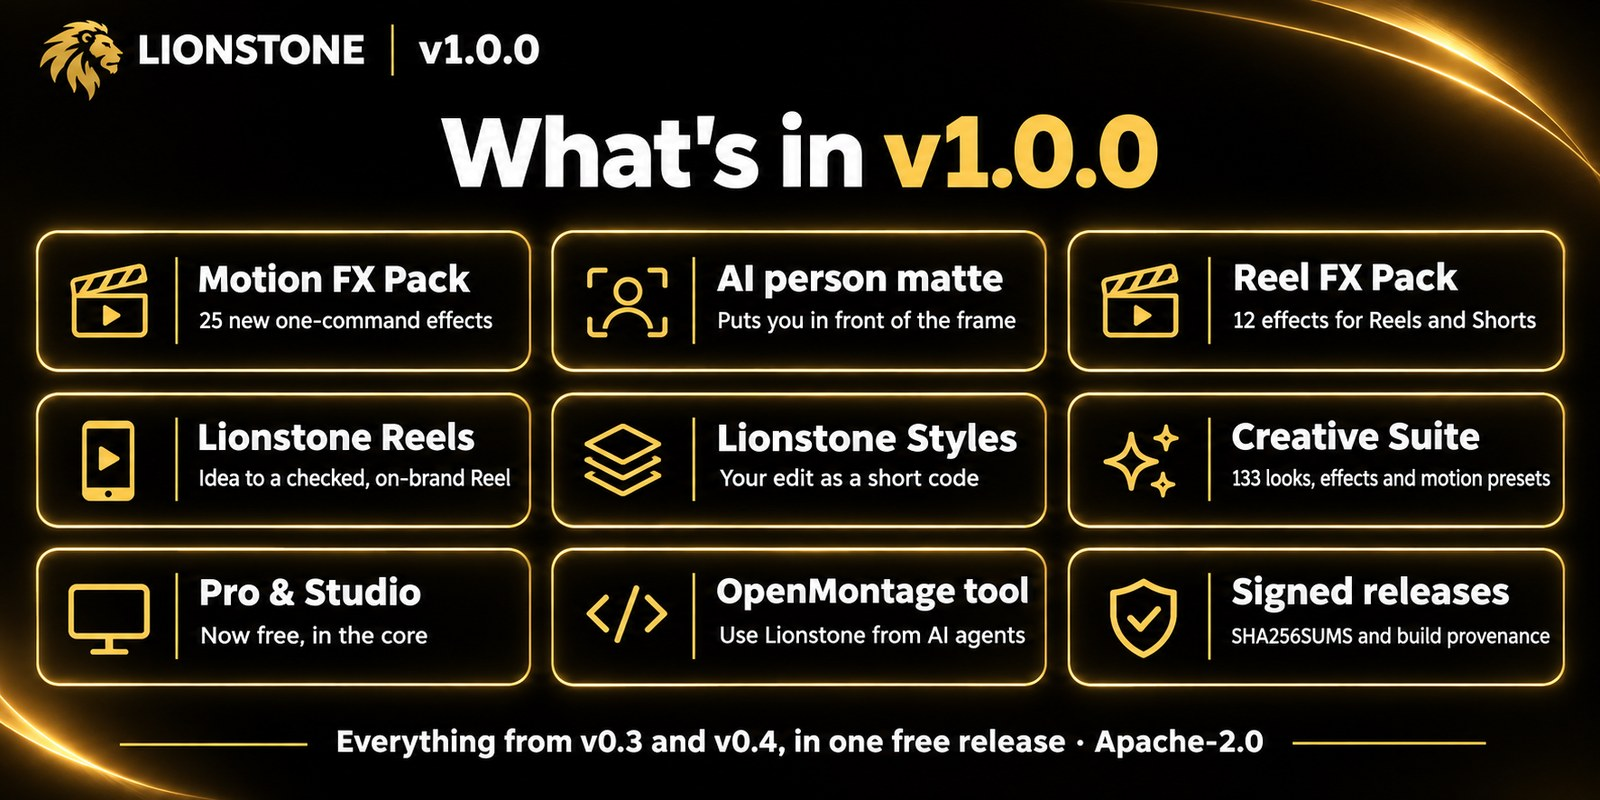
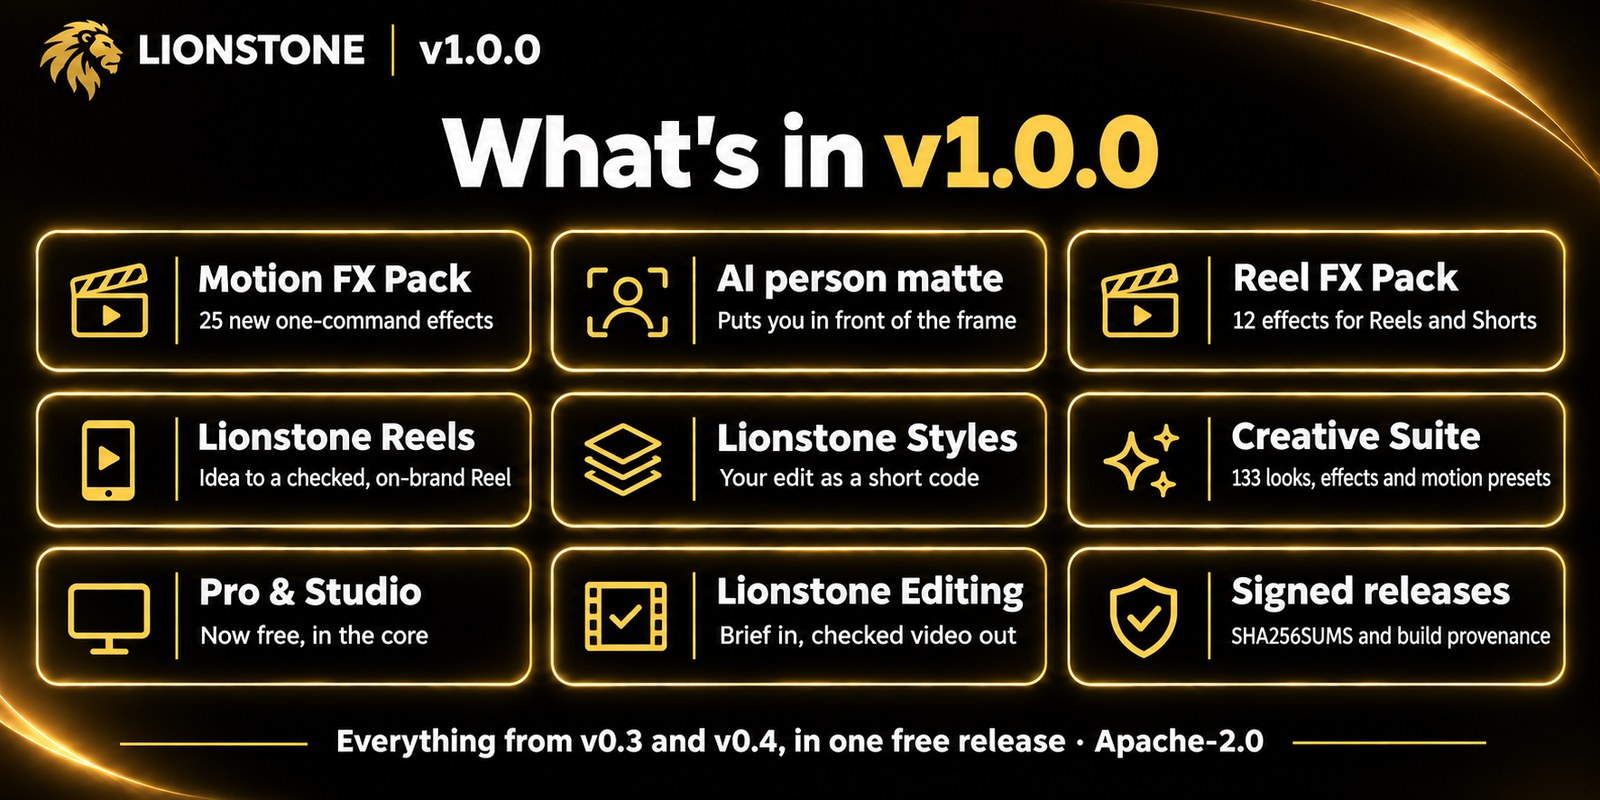
v1.0.0: Lionstone Editing is part of the release; drop OpenMontage from the notes
The CHANGELOG 1.0.0 section, release notes, README alt text and the
'What's in v1.0.0' image now show Lionstone Editing instead of the removed
OpenMontage adapter.

diff --git a/CHANGELOG.md b/CHANGELOG.md
@@ -1,9 +1,5 @@
 # Changelog
 
-## Unreleased
-- **Lionstone Editing** ([docs/editing.md](docs/editing.md)): Lionstone's own production loop for AI assistants. A `brief.json` goes in; `lionstone editing run` plans the edit, stops for review if asked, applies the Studio look, renders, applies the Motion FX / Reel FX from the brief, runs QA on the final file and writes `report.md`. Every stage is recorded in `production.json` (`done`, `skipped` with a reason, `partial`, `waiting`, `failed`); finished stages are not repeated and `--from STAGE` redoes from a stage. New MCP tools `editing_init`, `editing_run`, `editing_status`, and a skill in `integrations/lionstone-editing/`. Creative copy comes only from the brief.
-- **Removed the OpenMontage adapter** (`integrations/openmontage/`, `docs/openmontage.md`): Lionstone Editing covers the same brief-to-video loop with Lionstone's own tools. `lionstone fx clip` is unchanged.
-
 ## 1.0.0 — 2026-11-09
 **Lionstone 1.0: the Motion FX Pack. Twenty-five motion-design effects, one command each, and a person matte that puts you in front of the frame. Free as ever.**
 
@@ -14,7 +10,7 @@
 - Renders, previews and showcase reels feed the matte with the same cuts as the video (`render.build_graph(matte_input=…)`).
 - Text in effects is literal: `%` in a label no longer breaks the render (`expansion=none`), and bundled fonts load from Windows user folders with non-ASCII names (FreeType can't open those paths, so fonts are used from a temp copy).
 - **`lionstone fx clip <effect> in.mp4 -o out.mp4`**: one effect on a whole clip at its own size, audio copied ([pro/features/clipfx.py](src/lionstone/pro/features/clipfx.py)).
-- **OpenMontage integration** ([docs/openmontage.md](docs/openmontage.md)): `integrations/openmontage/install.py` adds the `lionstone_motion_fx` tool and skill to an OpenMontage checkout. The tool runs the `lionstone` command, so the Apache-2.0 and AGPL-3.0 projects stay separate programs.
+- **Lionstone Editing** ([docs/editing.md](docs/editing.md)): Lionstone's own production loop for AI assistants. A `brief.json` goes in; `lionstone editing run` plans the edit, stops for review if asked, applies the Studio look, renders, applies the Motion FX / Reel FX from the brief, runs QA on the final file and writes `report.md`. Every stage is recorded in `production.json` (`done`, `skipped` with a reason, `partial`, `waiting`, `failed`); finished stages are not repeated and `--from STAGE` redoes from a stage. New MCP tools `editing_init`, `editing_run`, `editing_status`, and a skill in `integrations/lionstone-editing/`. Creative copy comes only from the brief.
 - **Security on GitHub**: CodeQL code scanning, OpenSSF Scorecard, weekly grouped Dependabot, actions pinned to commit SHAs with read-only default tokens, CODEOWNERS, and a release workflow that tests, builds, writes SHA256SUMS, attests build provenance (Sigstore) and publishes the release. New [SECURITY.md](SECURITY.md) with supported versions, response times, network use and release verification.
 - Launch visuals are real renders: `scripts/build_motionfx_visuals.py` renders every effect on a fictional demo character and builds the carousel slides and `docs/img/motionfx-*.jpg`.
 - Fix: Paper Cut no longer tints grey areas green (chroma rounding).

diff --git a/docs/releases/v1.0.0.md b/docs/releases/v1.0.0.md
@@ -13,7 +13,7 @@
 - **Theatre.js keyframes for Remotion titles**: the `useTheatreSequence()` hook drives a title from a keyframed Theatre.js sequence (`@theatre/core`, Apache-2.0). Guide: [docs/motion-fx-2.md](https://github.com/ismailarslantas/lionstone/blob/v1.0.0/docs/motion-fx-2.md).
 - **Synfig backend** (optional): `lionstone fx synfig overlay.sif --input talk.mp4 -o out.mp4` renders a Synfig animation with the external `synfig` program and composites it over your video. Synfig (GPL) runs as a separate program and is never bundled.
 - **`lionstone fx clip <effect> in.mp4 -o out.mp4`**: apply one effect to a whole clip at its own size.
-- **OpenMontage tool**: use Lionstone's effects from AI video agents through the `lionstone_motion_fx` tool and skill ([docs/openmontage.md](https://github.com/ismailarslantas/lionstone/blob/v1.0.0/docs/openmontage.md)).
+- **Lionstone Editing**: Lionstone's own production loop for AI assistants. A short brief and your footage go in; `lionstone editing run` plans the edit, applies the look and the Motion FX / Reel FX from the brief, renders, runs QA on the final file and writes a report. Every stage is recorded, so a run can stop for your review and pick up where it left off. Also available as MCP tools (`editing_init`, `editing_run`, `editing_status`) and a Claude skill. Guide: [docs/editing.md](https://github.com/ismailarslantas/lionstone/blob/v1.0.0/docs/editing.md).
 - **Signed, verifiable releases and a hardened repository**: CodeQL code scanning, OpenSSF Scorecard, Dependabot, actions pinned to commit SHAs with read-only tokens, CODEOWNERS, and release files built by GitHub Actions with `SHA256SUMS` and a signed build provenance attestation ([SECURITY.md](https://github.com/ismailarslantas/lionstone/blob/v1.0.0/SECURITY.md)).
 
 ![Real renders of the first 17 Motion FX](https://raw.githubusercontent.com/ismailarslantas/lionstone/v1.0.0/docs/img/motionfx-real-renders.jpg)

diff --git a/README.md b/README.md
@@ -26,7 +26,7 @@ pip install "lionstone[all] @ git+https://github.com/ismailarslantas/lionstone"
 lionstone doctor
 ```
 
-<img src="assets/launch/00-whats-new-v1.jpg" alt="What's in Lionstone v1.0.0: Motion FX Pack with 25 new one-command effects, AI person matte, Reel FX Pack with 12 effects, Lionstone Reels, Lionstone Styles, Creative Suite with 133 looks, effects and motion presets, Pro and Studio free in the core, OpenMontage tool for AI agents, signed releases with SHA256SUMS and build provenance. Everything from v0.3 and v0.4 in one free release, Apache-2.0" width="100%">
+<img src="assets/launch/00-whats-new-v1.jpg" alt="What's in Lionstone v1.0.0: Motion FX Pack with 25 new one-command effects, AI person matte, Reel FX Pack with 12 effects, Lionstone Reels, Lionstone Styles, Creative Suite with 133 looks, effects and motion presets, Pro and Studio free in the core, Lionstone Editing: brief in, checked video out, signed releases with SHA256SUMS and build provenance. Everything from v0.3 and v0.4 in one free release, Apache-2.0" width="100%">
 
 ---
 
